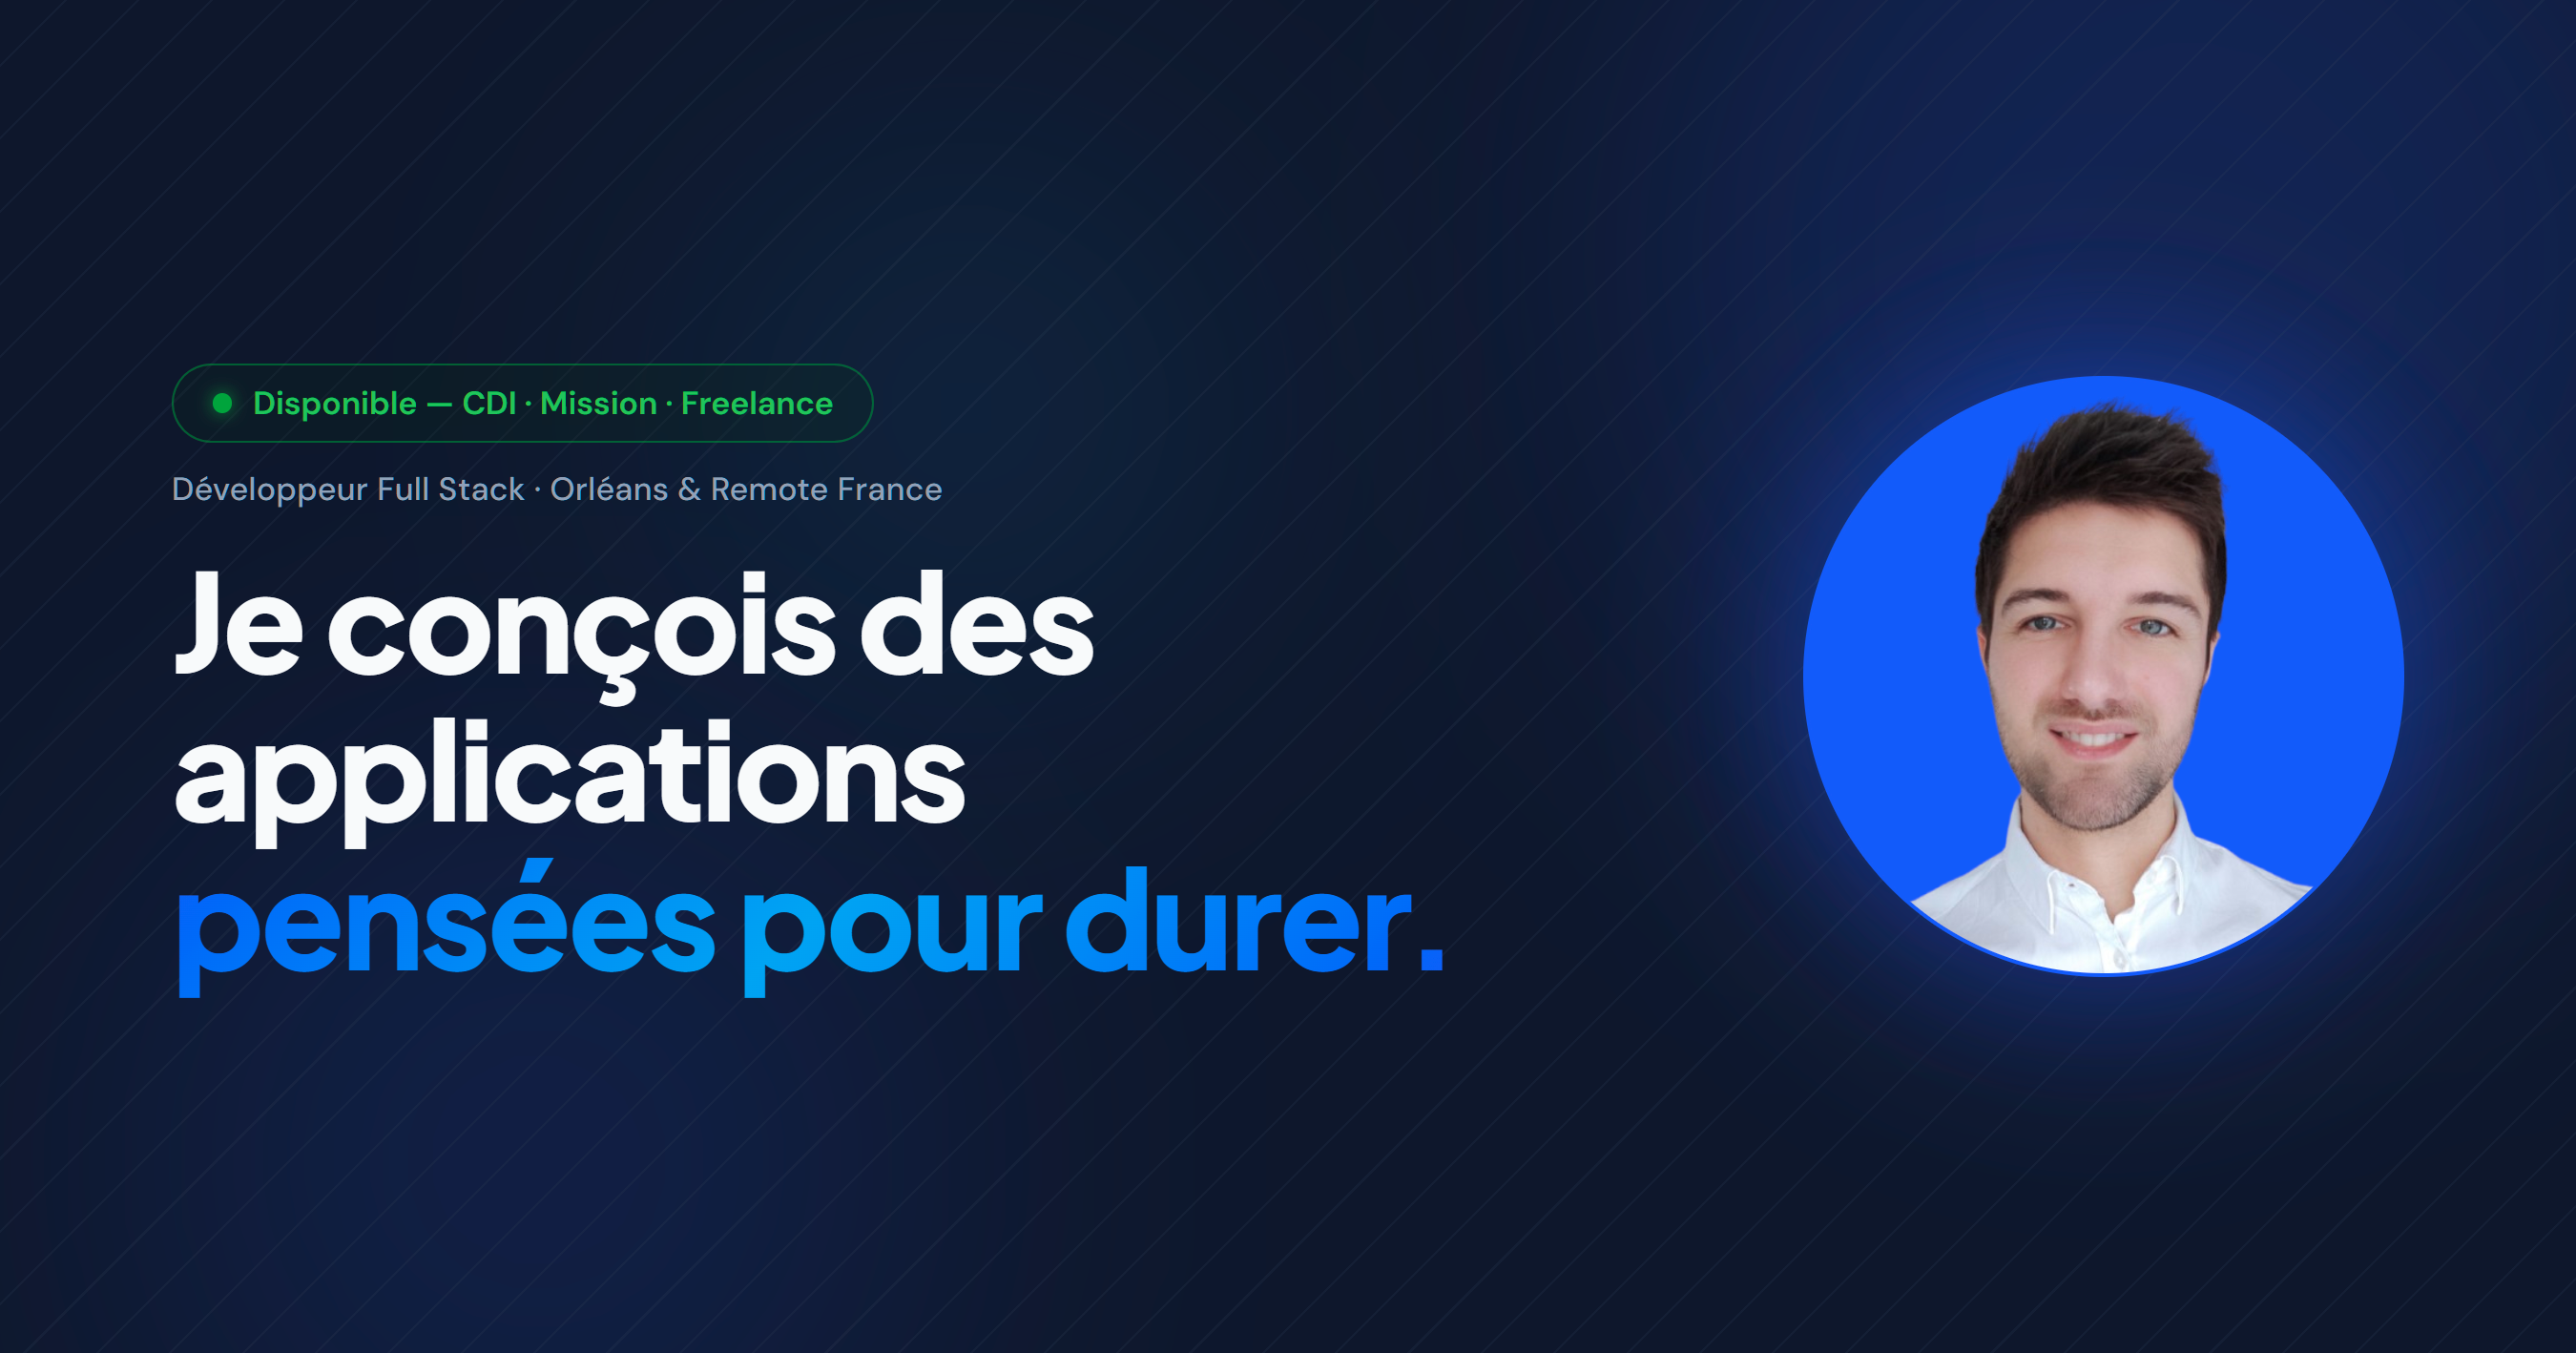
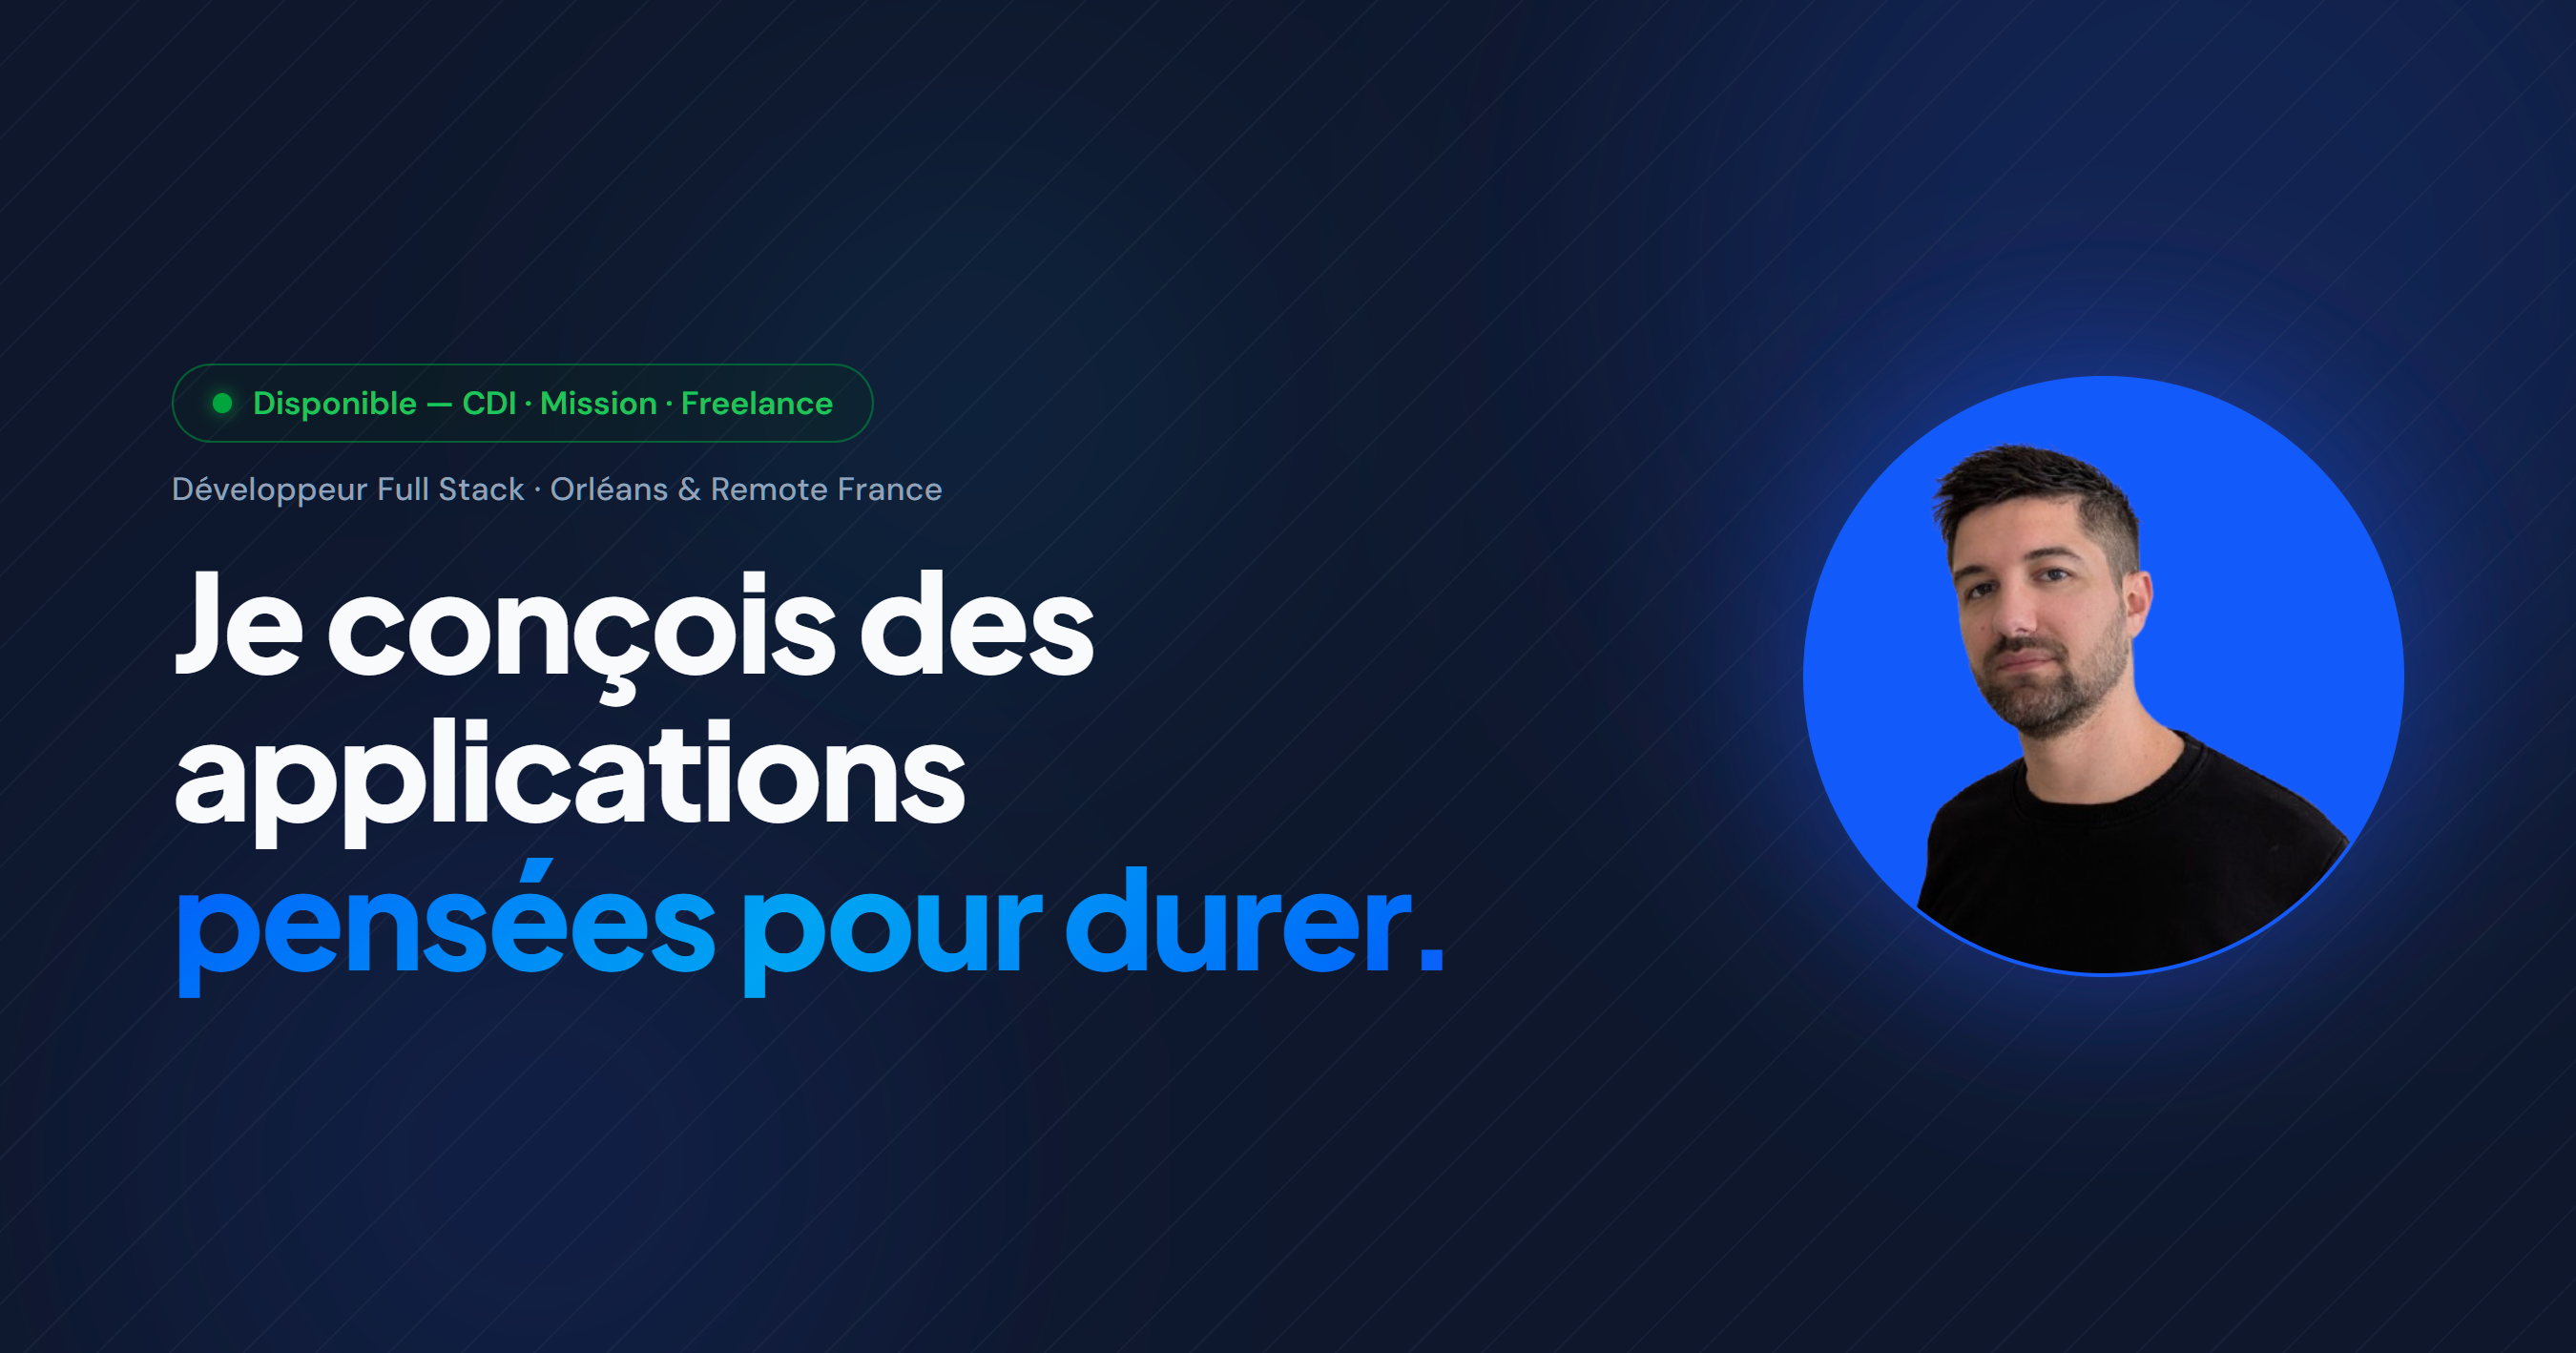
chore(img): mise à jour des bannières

Changed region(s): [[0.7467, 0.2793, 0.9333, 0.7447]]

diff --git a/docs/linkedin-banner.html b/docs/linkedin-banner.html
@@ -77,52 +77,13 @@
         z-index: 10;
         display: flex;
         align-items: center;
+        justify-content: flex-end;
         height: 100%;
-        padding: 0 100px 0 420px;
-        gap: 80px;
-      }
-
-      /* Séparateur vertical */
-      .divider {
-        width: 1px;
-        height: 120px;
-        background: linear-gradient(
-          to bottom,
-          transparent,
-          oklch(0.372 0.044 257.287 / 0.8) 40%,
-          oklch(0.372 0.044 257.287 / 0.8) 60%,
-          transparent
-        );
-        flex-shrink: 0;
-      }
-
-      /* Bloc gauche : nom + titre */
-      .col-identity {
-        display: flex;
-        flex-direction: column;
-        gap: 10px;
-        flex-shrink: 0;
-      }
-
-      .name {
-        font-family: "Plus Jakarta Sans", system-ui, sans-serif;
-        font-weight: 800;
-        font-size: 52px;
-        line-height: 1;
-        letter-spacing: -0.02em;
-        color: oklch(0.984 0.003 247.858);
-      }
-
-      .title {
-        font-size: 17px;
-        font-weight: 500;
-        color: oklch(0.704 0.04 256.788);
-        letter-spacing: 0.01em;
+        padding-right: 160px;
       }
 
       /* Bloc centre : accroche */
       .col-tagline {
-        flex: 1;
         display: flex;
         flex-direction: column;
         gap: 16px;
@@ -131,7 +92,7 @@
       h2 {
         font-family: "Plus Jakarta Sans", system-ui, sans-serif;
         font-weight: 800;
-        font-size: 36px;
+        font-size: 56px;
         line-height: 1.1;
         letter-spacing: -0.02em;
         color: oklch(0.984 0.003 247.858);
@@ -179,14 +140,6 @@
     <div class="grid-overlay"></div>
 
     <div class="content">
-      <!-- Identité -->
-      <div class="col-identity">
-        <div class="name">Romaric Yi</div>
-        <div class="title">Développeur Full Stack · Orléans &amp; Remote</div>
-      </div>
-
-      <div class="divider"></div>
-
       <!-- Accroche -->
       <div class="col-tagline">
         <h2>

diff --git a/docs/github-banner.html b/docs/github-banner.html
@@ -186,7 +186,7 @@
       .photo-wrapper img {
         width: 100%;
         height: 100%;
-        object-fit: contain;
+        object-fit: cover;
         object-position: center 85%;
         display: block;
       }

diff --git a/docs/og-preview.html b/docs/og-preview.html
@@ -171,7 +171,7 @@
       .photo-wrapper img {
         width: 100%;
         height: 100%;
-        object-fit: contain;
+        object-fit: cover;
         object-position: center 85%;
         display: block;
       }